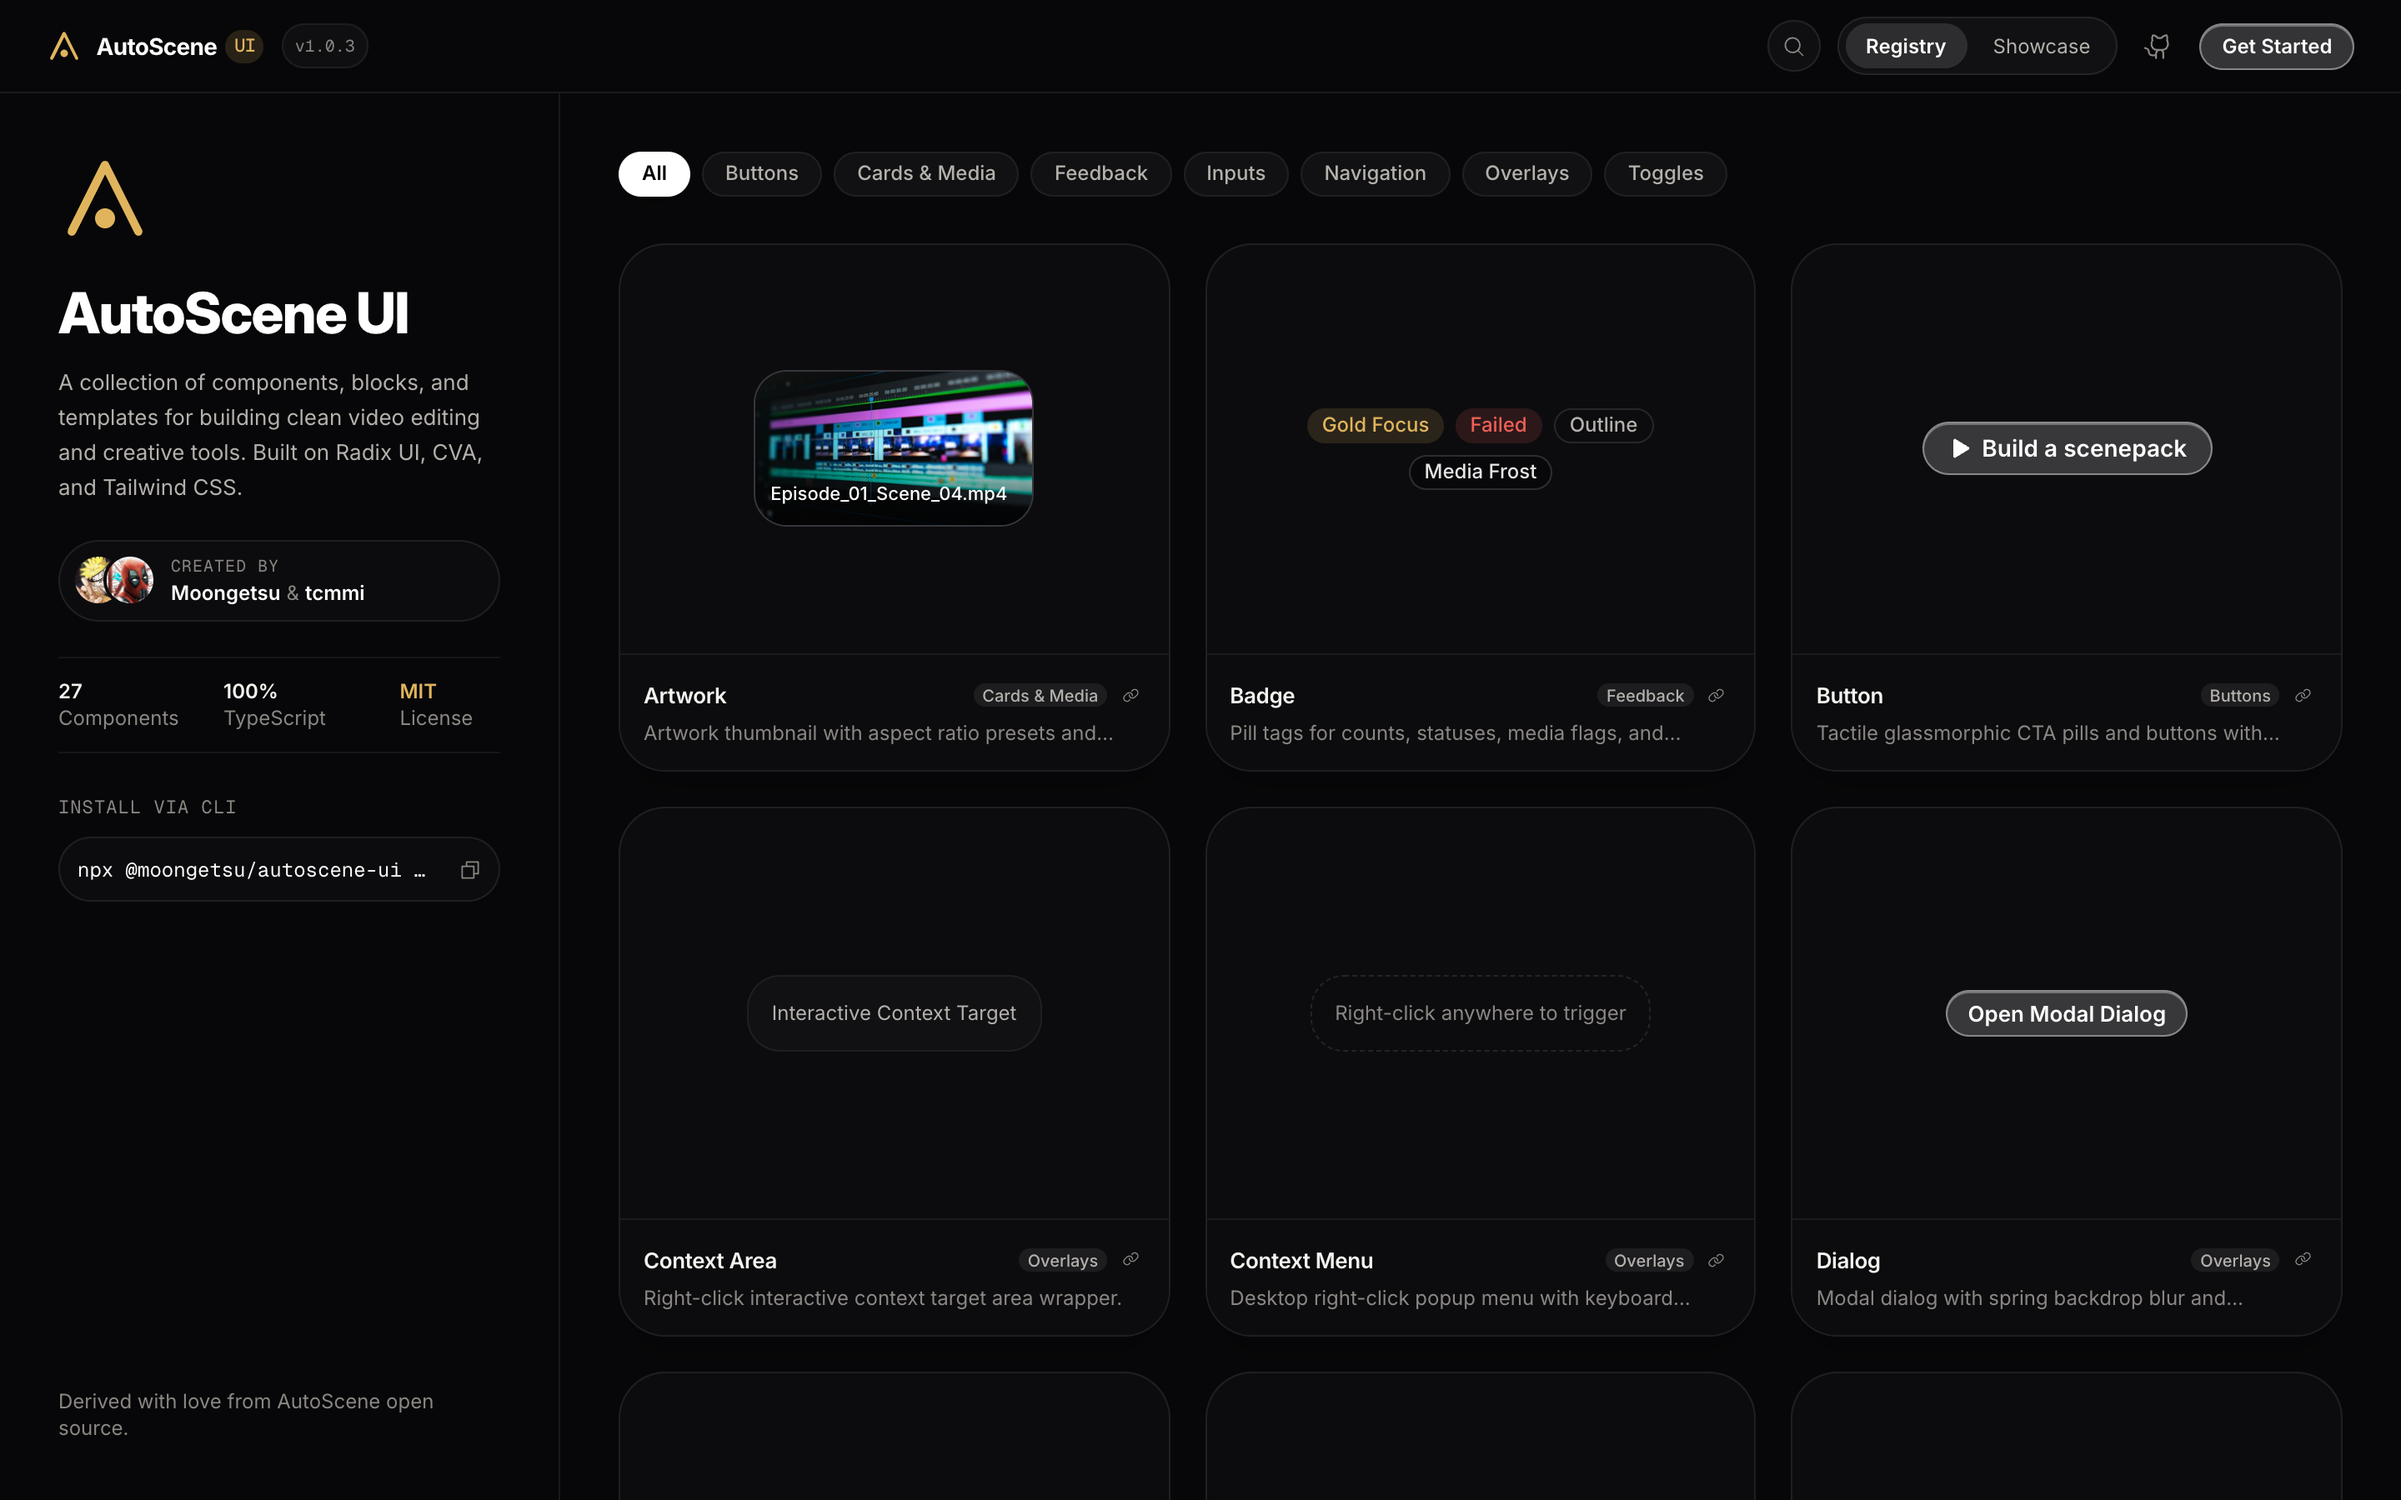
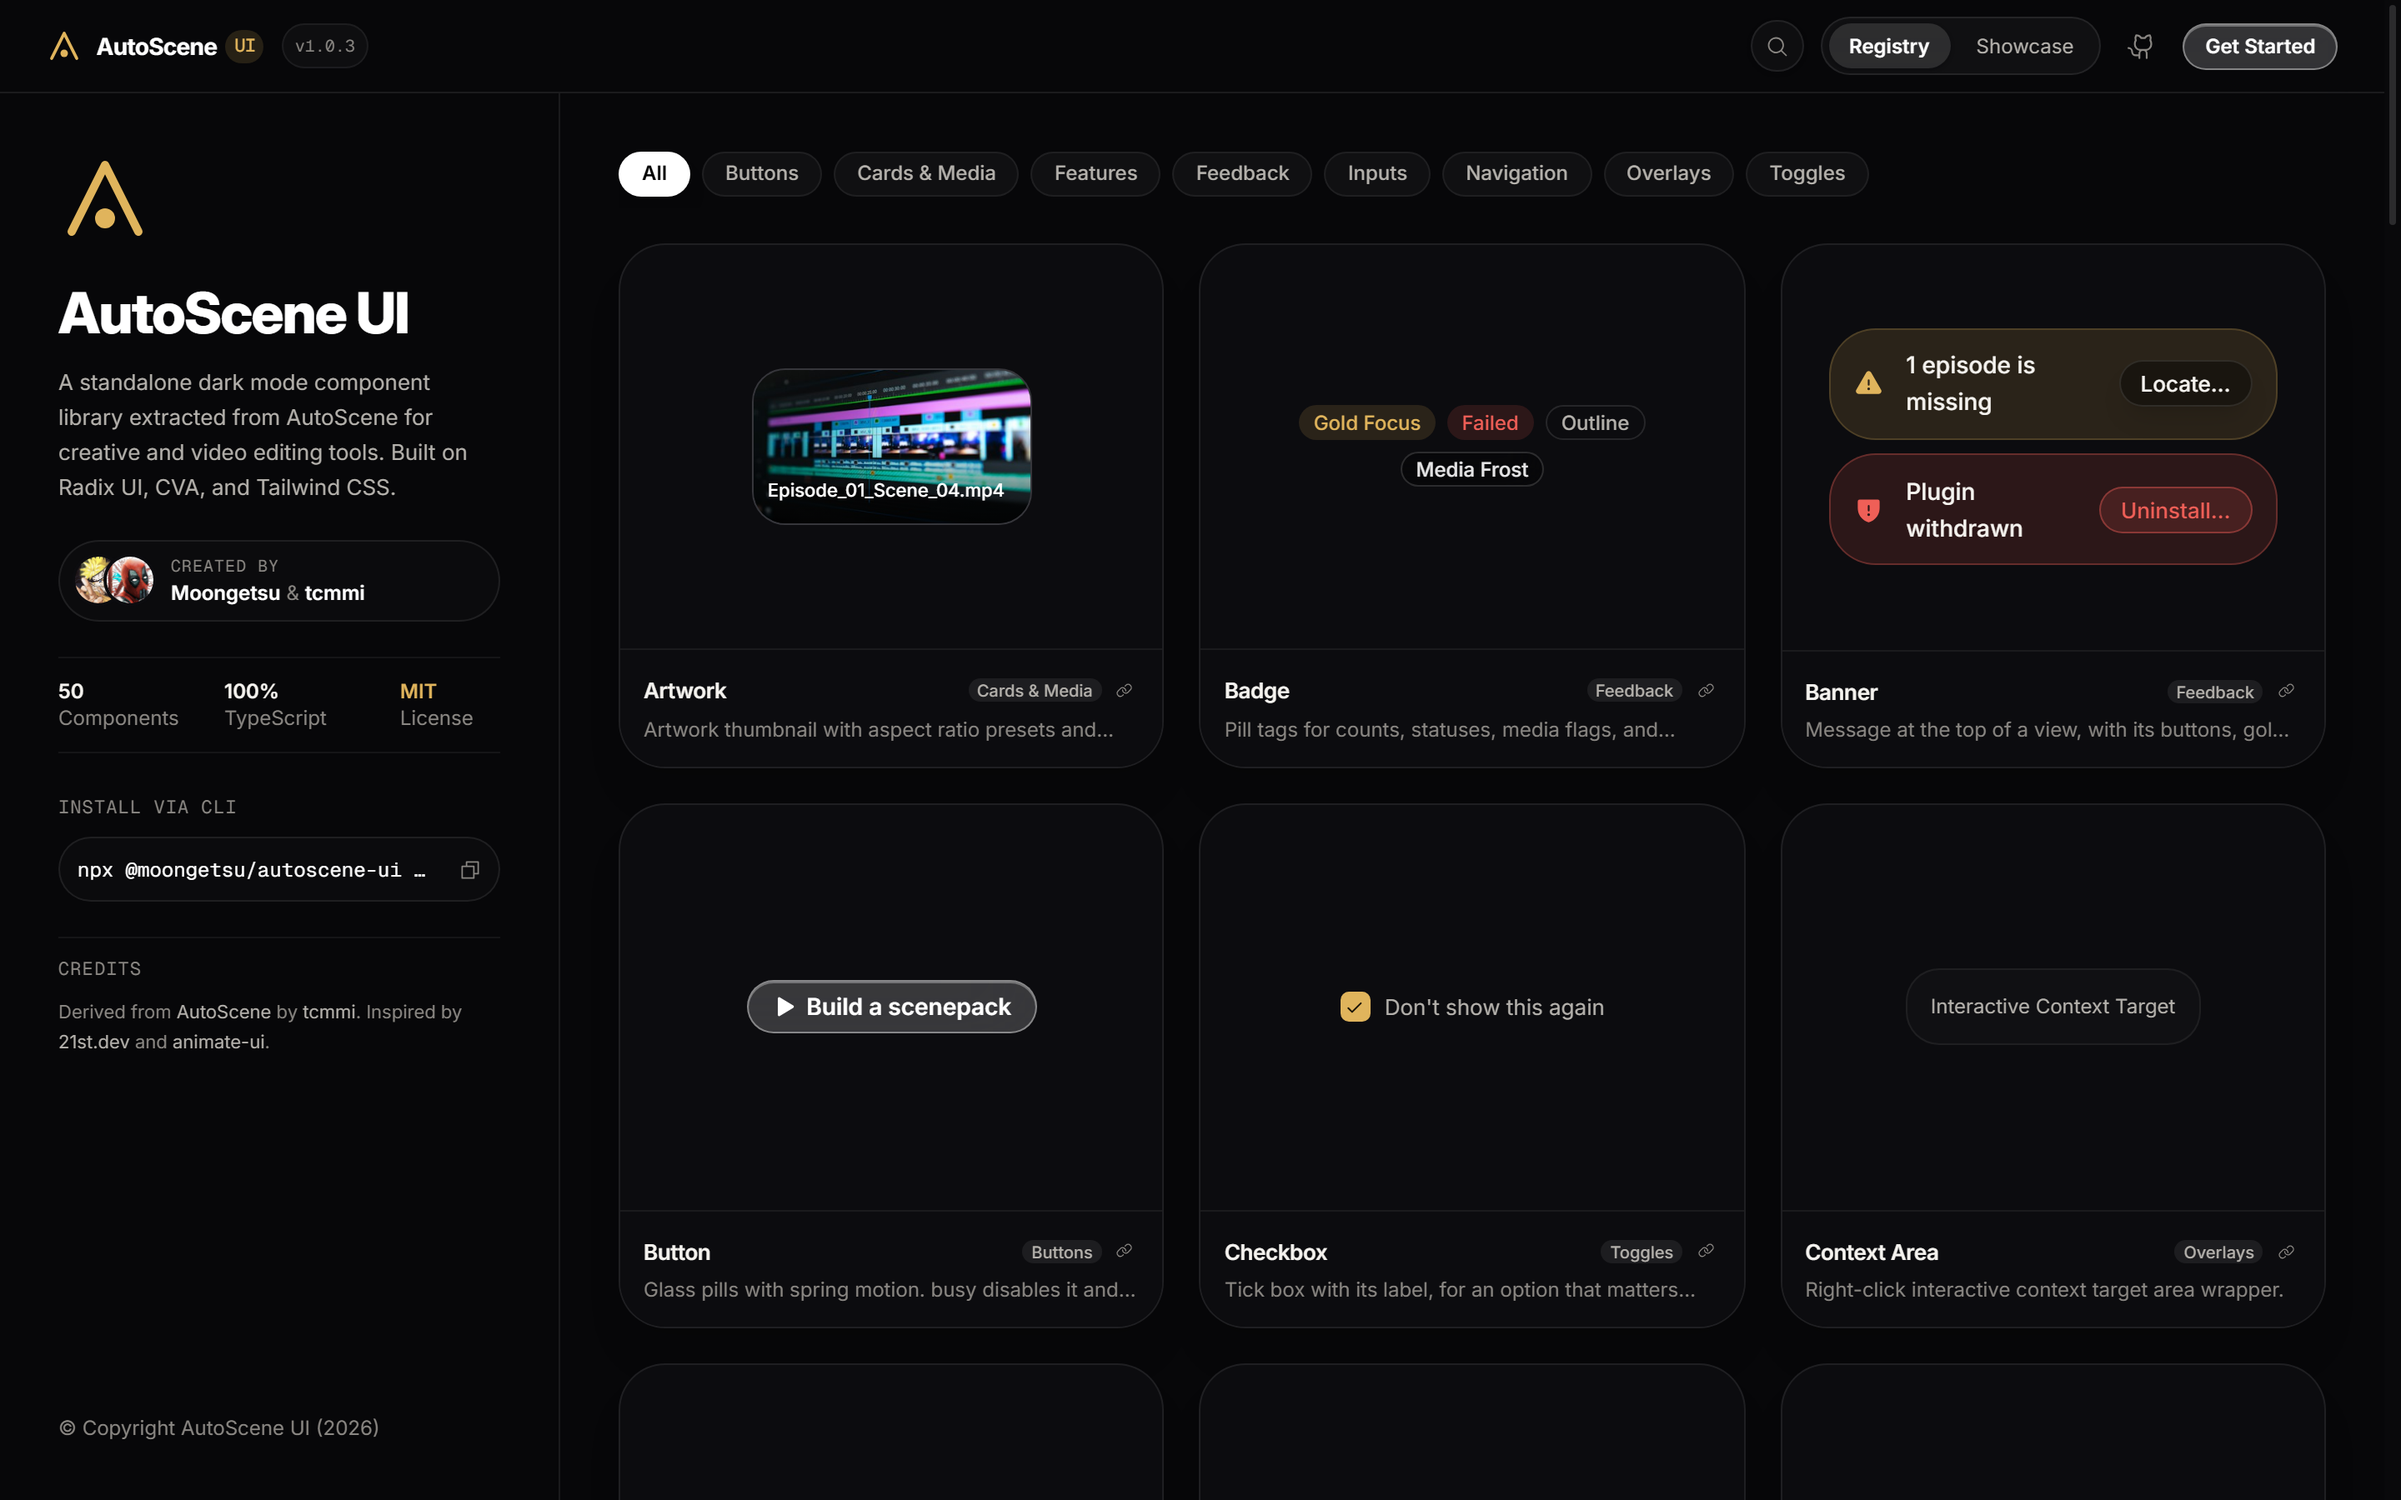
(update) README and registry preview for the new catalog
The README says what the catalog lists now: 32 primitives and 18 feature
components, how to add one, what busy does, the library's forks and why a
sync must merge into them rather than overwrite them, and the rule on
stills. The registry preview is retaken, since it showed the old count and
had no Features filter.

diff --git a/README.md b/README.md
@@ -31,7 +31,7 @@ AutoScene UI is a collection of React components designed for dark interfaces, m
 * **Dark Surfaces**: Layered dark tones (`#050506` through `#202025`) suited for footage viewing and long editing sessions.
 * **Frosted Borders and Overlays**: Subtle borders, backdrop blurs, and glass layers.
 * **Warm Gold Accents**: High contrast indicators (`#e0b45c`) for active operations, selections, and focus rings.
-* **Zero Desktop Coupling**: Runs in any standard modern web browser with React 18 or 19.
+* **Zero Desktop Coupling**: Runs in any standard modern web browser with React 18 or 19. The site answers the app's calls from a mock backend.
 
 ---
 
@@ -71,16 +71,69 @@ export default function App() {
 
 ## Components
 
-The library contains 27 core components organized by functional area:
+The catalog lists 50 entries: 32 primitives and 18 feature components. It is one file, `src/registry/catalog.json`: the registry, the showcase counts, the command palette and the static pages all read it.
+
+### Primitives
 
 | Category | Components |
 | :--- | :--- |
-| **Buttons & Controls** | `Button`, `Segmented`, `Switch`, `Slider` |
-| **Inputs & Data** | `Input`, `Field`, `Select`, `FilterBar` |
-| **Feedback & Badges** | `Badge`, `Progress`, `Skeleton`, `Kbd`, `Toaster` |
-| **Overlays & Dialogs** | `Dialog`, `Sheet`, `DropdownMenu`, `ContextMenu`, `Tooltip`, `ContextArea`, `MenuActions` |
-| **Media & Cards** | `Artwork`, `Shelf`, `Hero`, `EmptyState`, `VirtualGrid` |
-| **Navigation & Layout** | `TopBar`, `Page`, `AutoSceneMark` |
+| **Buttons** | `Button` |
+| **Toggles** | `Segmented`, `Switch`, `Checkbox`, `Slider` |
+| **Inputs** | `Input`, `Field`, `Select` |
+| **Feedback** | `Badge`, `Banner`, `Progress`, `ProgressRing`, `Skeleton`, `Kbd`, `Toaster`, `ErrorState` |
+| **Overlays** | `Dialog`, `Sheet`, `DropdownMenu`, `ContextMenu`, `Tooltip`, `ContextArea`, `MenuActions` |
+| **Cards & Media** | `Artwork`, `Hero`, `Shelf`, `EmptyState`, `VirtualGrid`, `SettingsGroup`, `SettingRow`, `PathText` |
+| **Navigation** | `TopBar`, `Page`, `FilterBar` |
+
+`Button` takes `busy`: it can't be pressed, and a spinner takes the place of its first icon, or stands in front of the label when it has none.
+
+### Features
+
+Whole parts of the app, listed under Features in the registry and in the showcase. They run on the library's mock backend with made-up data, and they stay in this repo: they aren't in the npm package.
+
+| Where | Components |
+| :--- | :--- |
+| **Plugins** | `PluginArt`, `PluginCard`, `PluginsPage`, `PluginSettingsPage`, `UninstallDialog`, `WithdrawnBanner`, `CatalogCard`, `BrowseView` |
+| **Player** | `DetailsPanel`, `CastTab`, `FileTab`, `TabBody`, `ShotHeader`, `PlayerKeysDialog` |
+| **Library, Cast** | `ProjectCard`, `CharacterCard` |
+| **Settings** | `HardwareGroup` |
+| **Shell** | `FastScanNotice` |
+
+`PluginFrame`, `PluginPageView` and `PlayerPicture` are not listed: they are a sandboxed frame and a video wrapper, and show nothing without the desktop app. The `/x/` routes of plugin pages, the `.asp` file handling and the rest of the Tauri glue stay out of this repo.
+
+### Adding a component
+
+1. Add one line to `src/registry/catalog.json`: its id, name, category, showcase section, description and file. A feature also names where it lives (`feature`).
+2. Add its preview to `COMPONENT_DEMO_PREVIEWS` (`src/registry/component-previews.tsx`), or to `FEATURE_PREVIEWS` for a feature.
+3. If the package should export it, add it to `src/index.ts` and to the entry's `exports`.
+
+`src/registry/catalog.test.ts` fails when a file in `src/components/ui` has no entry, an entry has no preview, or an entry names an export the package doesn't have. Every entry gets its static page from `scripts/prerender-routes.mjs`.
+
+### Syncing with the app
+
+Most of `src/` mirrors the AutoScene app and can be copied over. These files are the library's own forks: **a sync must merge into them, never overwrite them.**
+
+| File | Why it differs from the app |
+| :--- | :--- |
+| `ui/context-menu`, `ui/dialog`, `ui/sheet`, `ui/switch` | Built on the `@animate-ui` primitives |
+| `ui/dropdown-menu` | The same, with the app's scrolling and collision padding merged in |
+| `ui/slider`, `ui/tooltip` | The library's own motion and placement |
+| `ui/toaster` | `CleanToastCapsule`, bottom right |
+| `ui/button` | `motion.button`, `busy`, `cursor-pointer` |
+| `ui/segmented` | Sliding pill (`layoutId`), `w-fit` |
+| `brand/AutoSceneMark` | The `bare` look |
+| `icons.ts` | Adds `Link` and `List` |
+| `styles/tokens.css` | Its own `--ease-out` and `--ease-spring` |
+| `styles/index.css`, `styles/base.css` | Tooltip keyframes; the page scrolls, its text can be selected, clickable things get the hand |
+| `shell/AppShell`, `shell/AppMenu`, `router.tsx` | The `!isTauri` web shell, the `@animate-ui` menu root, the registry and showcase routes without plugin pages |
+
+Library only, with nothing to sync: `ui/filter-bar`, `ui/skeleton`, `lib/motion.ts`, `shell/StandaloneShell`, `styles/library.css` (what the package ships), `src/registry` and `src/components/showcase`.
+
+Copied files lose their em and en dashes, as `AGENTS.md` asks, so expect those lines in a diff against the app. `FastScanNotice` reads its still through `import.meta.env.BASE_URL`, since the site isn't served from the root.
+
+### Footage stills
+
+The pictures in `public/footage` are from open films and artwork under Creative Commons Attribution licences. A preview that shows one says whose it is. No studio art belongs in this repo: `FastScanNotice` stays on the Tears of Steel still with its credit, whatever the app shows there.
 
 ---
 
